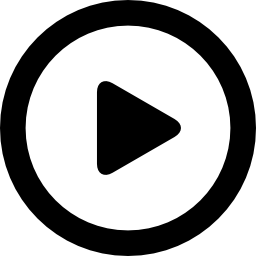
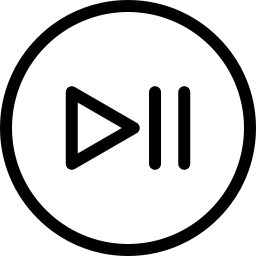
enhance the interaction tab

Changed region(s): [[0.0312, 0.0312, 0.9688, 0.9688], [0.25, 0.3125, 0.75, 0.6875]]

diff --git a/server/server.py b/server/server.py
@@ -31,9 +31,10 @@ class Server:
 
         # Window and canvas initialization parameters
         self.width  = 800
-        self.height = 600
+        self.height = 400
         self.window = tk.Tk()
         self.window.title("Android's Sensors")
+        self.window.resizable(False, False)
 
         self.create_sensor_frame()
         self.create_tabs_frame()
@@ -41,7 +42,7 @@ class Server:
     def create_sensor_frame(self):
         
         # Main sensor Frame
-        self.sensor_frame = tk.Frame(self.window)
+        self.sensor_frame = tk.Frame(self.window, width=self.width/4, height=self.height)
         self.sensor_frame.grid(row=0, column=0, sticky="nswe")
         self.sensor_frame.rowconfigure(0, minsize=100, weight=0)
 
@@ -96,22 +97,23 @@ class Server:
         self.label_position_z.grid(row=2, column=1, sticky="we", padx=25)
 
     def create_tabs_frame(self):
-        # Right Frame
-        self.right_frame = tk.Frame(self.window, width = self.width, height = self.height, bg="lightblue")
-        self.right_frame.grid(row=0, column=1, sticky="nswe")
-        self.right_frame.rowconfigure(0, minsize=400, weight=1)
+        self.tab_widget = ttk.Notebook(self.window, width=int(self.width-self.width/4), height=self.height)
+        self.tab_widget.grid(row=0, column=1, sticky="news")
+        
+        s = ttk.Style()
+        s.configure('TNotebook', tabposition=tk.NSEW)
 
-        self.notebook = ttk.Notebook(self.right_frame)
-        self.notebook.grid(row=0, column=0, sticky="nswe")
+        self.settings_frame = tk.Frame(self.tab_widget)
+        self.create_settings(self.settings_frame)
 
-        self.frame1 = tk.Frame(self.notebook, width=self.width, height=self.height)
-        self.create_settings(self.frame1)
+        self.interaction_frame = tk.Frame(self.tab_widget)
+        self.interaction_frame.grid(row=0, column=0, sticky="nswe")
+        self.interaction_frame.columnconfigure(0, minsize=100, weight=1)
+        self.interaction_frame.rowconfigure(2, minsize=100, weight=1)
+        self.create_interaction_frame(self.interaction_frame)
 
-        self.canvas_interaction = tk.Canvas(master = self.window, width = self.width, height = self.height, bg="grey")
-        self.create_interaction_frame(self.canvas_interaction)
-
-        self.notebook.add(self.frame1, text='Settings')
-        self.notebook.add(self.canvas_interaction, text='Interaction Testing')
+        self.tab_widget.add(self.settings_frame, text='Settings')
+        self.tab_widget.add(self.interaction_frame, text='Interaction Testing')
 
     def create_settings(self, parent):
 
@@ -119,10 +121,16 @@ class Server:
             print ("value is:" + self.variable.get())
 
         OPTIONS = [
-        "Left Gesture",
-        "Right Gesture",
-        "Up Gesture",
-        "Down Gesture"
+        "Play/Pause",
+        "Previous",
+        "Next",
+        "Stop",
+        "Volume +",
+        "Volume -",
+        "Seek +",
+        "Seek -",
+        "Scroll UP",
+        "Scroll DOWN"
         ]
 
         gestures = tk.Label(parent, text="GESTURES")
@@ -147,36 +155,136 @@ class Server:
         self.w1.grid(row=2, column=1, sticky="we")
 
     def create_interaction_frame(self, parent):
+        """
+        Create the layout of the interaction frame. The order is the following:
+        * Interaction selection frame
+        * Test interaction frame
+        """
+        interaction_selection = tk.Frame(parent, height = self.height/4)
+        interaction_selection.grid(row=0, column=0, sticky="nswe", pady=10)
+        interaction_selection.rowconfigure(0, weight=1)
+        interaction_selection.grid_columnconfigure(0, weight=1)
+        interaction_selection.grid_columnconfigure(1, weight=1)
+        interaction_selection.grid_columnconfigure(2, weight=1)
+
+        interaction_selection_explanation = tk.Message(interaction_selection, width=180 ,text="Please select the type of interaction tests: ")
+        interaction_selection_explanation.grid(row=0, column=0, sticky="nswe")
+
+        # Mode Selection RadioButton
+        interaction_selection_choice = tk.Frame(interaction_selection)
+        interaction_selection_choice.grid(row=0, column=1, sticky="nswe")
+
+        interaction_mode = tk.IntVar(value=1)
+        interaction_choice_1 = tk.Radiobutton(interaction_selection_choice, variable=interaction_mode, value=1, tristatevalue=0, text="Speed Test")
+        interaction_choice_1.grid(row=0, column=1, sticky="w")
+        interaction_choice_2 = tk.Radiobutton(interaction_selection_choice, variable=interaction_mode, value=2, tristatevalue=0, text="Interactive Test")
+        interaction_choice_2.grid(row=1, column=1, sticky="w")
+
+        interaction_start = ttk.Button(interaction_selection, text= "Start")
+        interaction_start.grid(row=0, column=2)
+
+        tk.Frame(parent, height=1, bg="black").grid(row=1, column=0, sticky="news")
+
+        # Test Interaction Frame
+        interaction_test = tk.Frame(parent)
+        interaction_test.grid(row=2, column=0, sticky="nswe")
+        interaction_test.rowconfigure(0, weight=1)
+        interaction_test.columnconfigure(2, weight=1)
+
+        interaction_test_buttons = tk.Frame(interaction_test, bg="lightgray")
+        interaction_test_buttons.grid(row=0, column=0, sticky="nswe")
+        interaction_test_buttons.grid_columnconfigure(0, weight=1)
+        interaction_test_buttons.grid_columnconfigure(1, weight=1)
+        interaction_test_buttons.grid_columnconfigure(2, weight=1)
+        interaction_test_buttons.grid_rowconfigure(0, weight=1)
+        interaction_test_buttons.grid_rowconfigure(1, weight=1)
+        interaction_test_buttons.grid_rowconfigure(2, weight=1)
+        interaction_test_buttons.grid_rowconfigure(3, weight=1)
+        interaction_test_buttons.grid_rowconfigure(4, weight=1)
 
         def test():
             print("It works!")
 
-        self.photo_play  = tk.PhotoImage(file = r"./server/sources/play.png").subsample(5,5)
-        self.photo_pause = tk.PhotoImage(file = r"./server/sources/pause.png").subsample(5,5)
-        self.photo_next  = tk.PhotoImage(file = r"./server/sources/next.png").subsample(5,5)
-        self.photo_prev  = tk.PhotoImage(file = r"./server/sources/previous.png").subsample(5,5)
-        self.photo_stop  = tk.PhotoImage(file = r"./server/sources/stop.png").subsample(5,5)
+        self.photo_play  = tk.PhotoImage(file = r"./server/sources/play.png").subsample(7,7)
+        self.photo_next  = tk.PhotoImage(file = r"./server/sources/next.png").subsample(7,7)
+        self.photo_prev  = tk.PhotoImage(file = r"./server/sources/previous.png").subsample(7,7)
+        self.photo_stop  = tk.PhotoImage(file = r"./server/sources/stop.png").subsample(7,7)
+        self.red_btn     = tk.PhotoImage(file = r"./server/sources/red_btn.png").subsample(7,7)
+        self.green_btn   = tk.PhotoImage(file = r"./server/sources/green_btn.png").subsample(7,7)
+        self.blue_btn    = tk.PhotoImage(file = r"./server/sources/blue_btn.png").subsample(7,7)
 
-        self.interaction_button = ttk.Button(parent, text= "Play", image=self.photo_play, compound=tk.LEFT, command= test)
-        self.interaction_button.grid(row=0, column=0, sticky="we")
+        self.interaction_button = ttk.Button(interaction_test_buttons, text= "Play/Pause", image=self.photo_play, compound=tk.LEFT, command= test)
+        self.interaction_button.grid(row=0, column=1, sticky="we")
+        self.interaction_button["state"] = "disabled"
 
-        self.interaction_button_pause = ttk.Button(parent, text= "Pause", image=self.photo_pause, compound=tk.LEFT, command= test)
-        self.interaction_button_pause.grid(row=0, column=3, sticky="we")
+        self.interaction_button_next = ttk.Button(interaction_test_buttons, text= "Next", image=self.photo_next, compound=tk.LEFT, command= test)
+        self.interaction_button_next.grid(row=1, column=2, sticky="we")
 
-        self.interaction_button_next = ttk.Button(parent, text= "Next", image=self.photo_next, compound=tk.LEFT, command= test)
-        self.interaction_button_next.grid(row=1, column=3, sticky="we")
-
-        self.interaction_button_prev = ttk.Button(parent, text= "Previous", image=self.photo_prev, compound=tk.LEFT, command= test)
+        self.interaction_button_prev = ttk.Button(interaction_test_buttons, text= "Previous", image=self.photo_prev, compound=tk.LEFT, command= test)
         self.interaction_button_prev.grid(row=1, column=0, sticky="we")
         
-        self.interaction_button_stop = ttk.Button(parent, text= "Stop", image=self.photo_stop, compound=tk.LEFT, command= test)
+        self.interaction_button_stop = ttk.Button(interaction_test_buttons, text= "Stop", image=self.photo_stop, compound=tk.LEFT, command= test)
         self.interaction_button_stop.grid(row=2, column=1, sticky="we")
 
-        self.interaction_volume = ttk.Scale(parent, from_=0, to=100, orient="vertical")
-        self.interaction_volume.grid(row=3, column=1, sticky="w")
+        tk.Frame(interaction_test, height=1, bg="black").grid(row=3, column=0, sticky="we")
 
-        self.interaction_seek = ttk.Scale(parent, from_=0, to=100)
-        self.interaction_seek.grid(row=4, column=1, sticky="we")
+        self.interaction_button_1 = ttk.Button(interaction_test_buttons, text= "Button 1", image=self.red_btn, compound=tk.LEFT, command= test)
+        self.interaction_button_1.grid(row=4, column=0, sticky="we")
+
+        self.interaction_button_2 = ttk.Button(interaction_test_buttons, text= "Button 2", image=self.green_btn, compound=tk.LEFT, command= test)
+        self.interaction_button_2.grid(row=4, column=1, sticky="we")
+
+        self.interaction_button_3 = ttk.Button(interaction_test_buttons, text= "Button 3", image=self.blue_btn, compound=tk.LEFT, command= test)
+        self.interaction_button_3.grid(row=4, column=2, sticky="we")  
+
+        tk.Frame(interaction_test, height=1, bg="black").grid(row=0, column=1, sticky="ns")
+
+        interaction_test_scales = tk.Frame(interaction_test)
+        interaction_test_scales.grid(row=0, column=2, sticky="news")
+        interaction_test_scales.columnconfigure(0, weight=1)
+        interaction_test_scales.rowconfigure(0, weight=1)
+        interaction_test_scales.rowconfigure(2, weight=1)
+
+        interaction_test_scales_upper = tk.Frame(interaction_test_scales)
+        interaction_test_scales_upper.grid(row=0, column=0, sticky="news", padx=10, pady=10)
+        interaction_test_scales_upper.rowconfigure(0, weight=0)
+        interaction_test_scales_upper.rowconfigure(1, weight=1)
+        interaction_test_scales_upper.columnconfigure(0, weight=1)
+        interaction_test_scales_upper.columnconfigure(1, weight=1)
+
+        self.test_volume_user_lb = tk.Label(interaction_test_scales_upper, text="Volume Input")
+        self.test_volume_user_lb.grid(row=0, column=0, sticky="news")
+
+        self.test_volume_user = ttk.Scale(interaction_test_scales_upper, from_=0, to=100, orient="vertical")
+        self.test_volume_user.grid(row=1, column=0, sticky="news")
+
+        self.test_volume_required_lb = tk.Label(interaction_test_scales_upper, text="Volume Required")
+        self.test_volume_required_lb.grid(row=0, column=1, sticky="news")
+
+        self.test_volume_required = ttk.Scale(interaction_test_scales_upper, from_=0, to=100, orient="vertical")
+        self.test_volume_required.grid(row=1, column=1, sticky="news")
+
+        tk.Frame(interaction_test_scales, height=1, bg="black").grid(row=1, column=0, sticky="news")
+
+        interaction_test_scales_lower = tk.Frame(interaction_test_scales, bg="green")
+        interaction_test_scales_lower.grid(row=2, column=0, sticky="news", padx=10)
+        interaction_test_scales_lower.rowconfigure(0, weight=1)
+        interaction_test_scales_lower.rowconfigure(1, weight=1)
+        interaction_test_scales_lower.rowconfigure(2, weight=1)
+        interaction_test_scales_lower.rowconfigure(3, weight=1)
+        interaction_test_scales_lower.columnconfigure(0, weight=1)
+
+        self.test_seek_user_lb = tk.Label(interaction_test_scales_lower, anchor="w", text="Seek Input")
+        self.test_seek_user_lb.grid(row=0, column=0, sticky="news")
+
+        self.test_seek_user = ttk.Scale(interaction_test_scales_lower, from_=0, to=100)
+        self.test_seek_user.grid(row=1, column=0, sticky="news")
+
+        self.test_seek_required_lb = tk.Label(interaction_test_scales_lower, anchor="w", text="Seek Required")
+        self.test_seek_required_lb.grid(row=2, column=0, sticky="news")
+
+        self.test_seek_required = ttk.Scale(interaction_test_scales_lower, from_=0, to=100)
+        self.test_seek_required.grid(row=3, column=0, sticky="news")
 
     def set_udp(self, host, port):
         """
